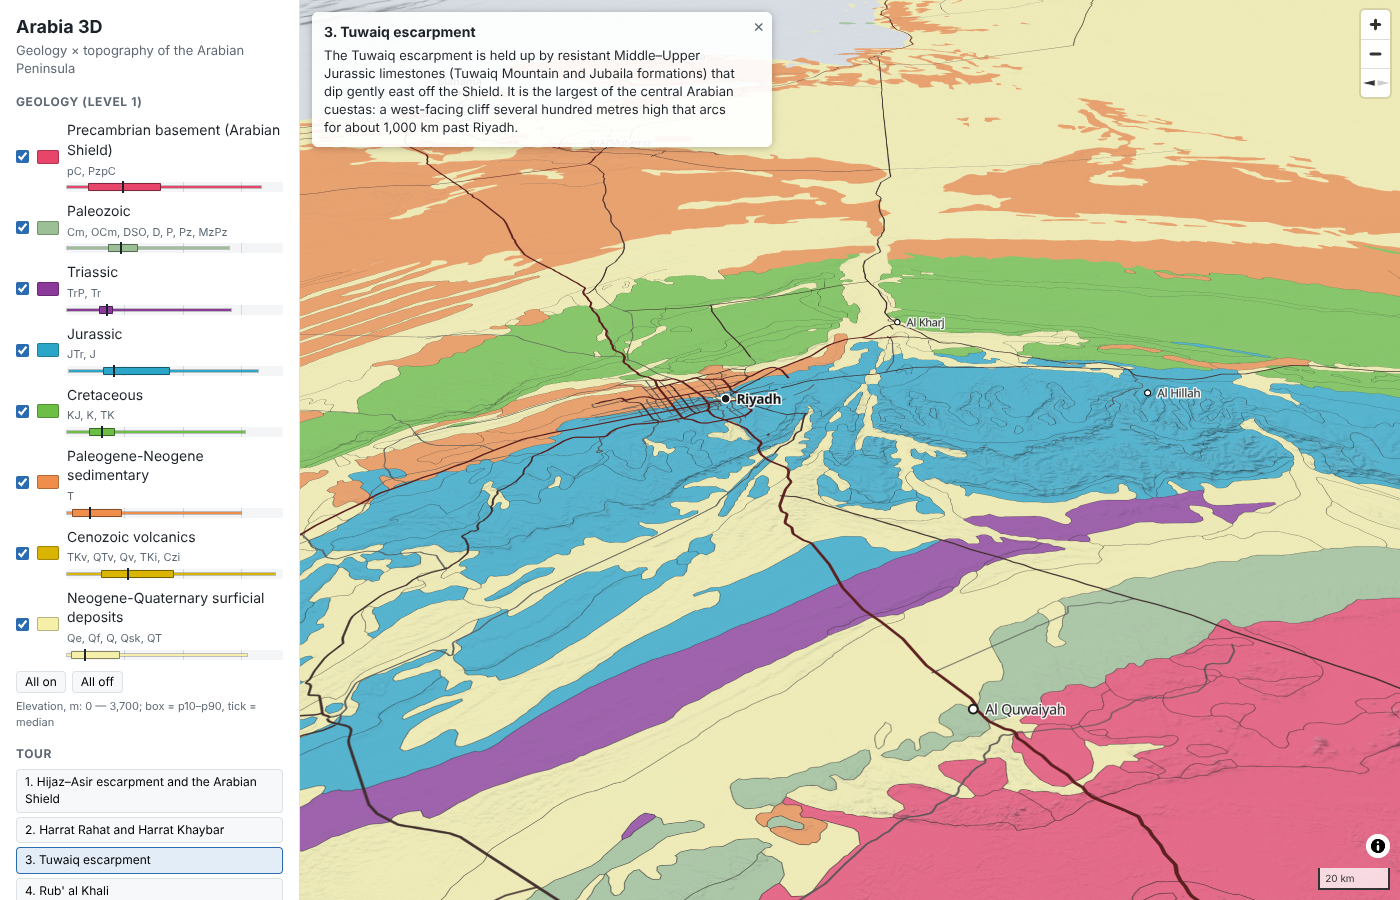
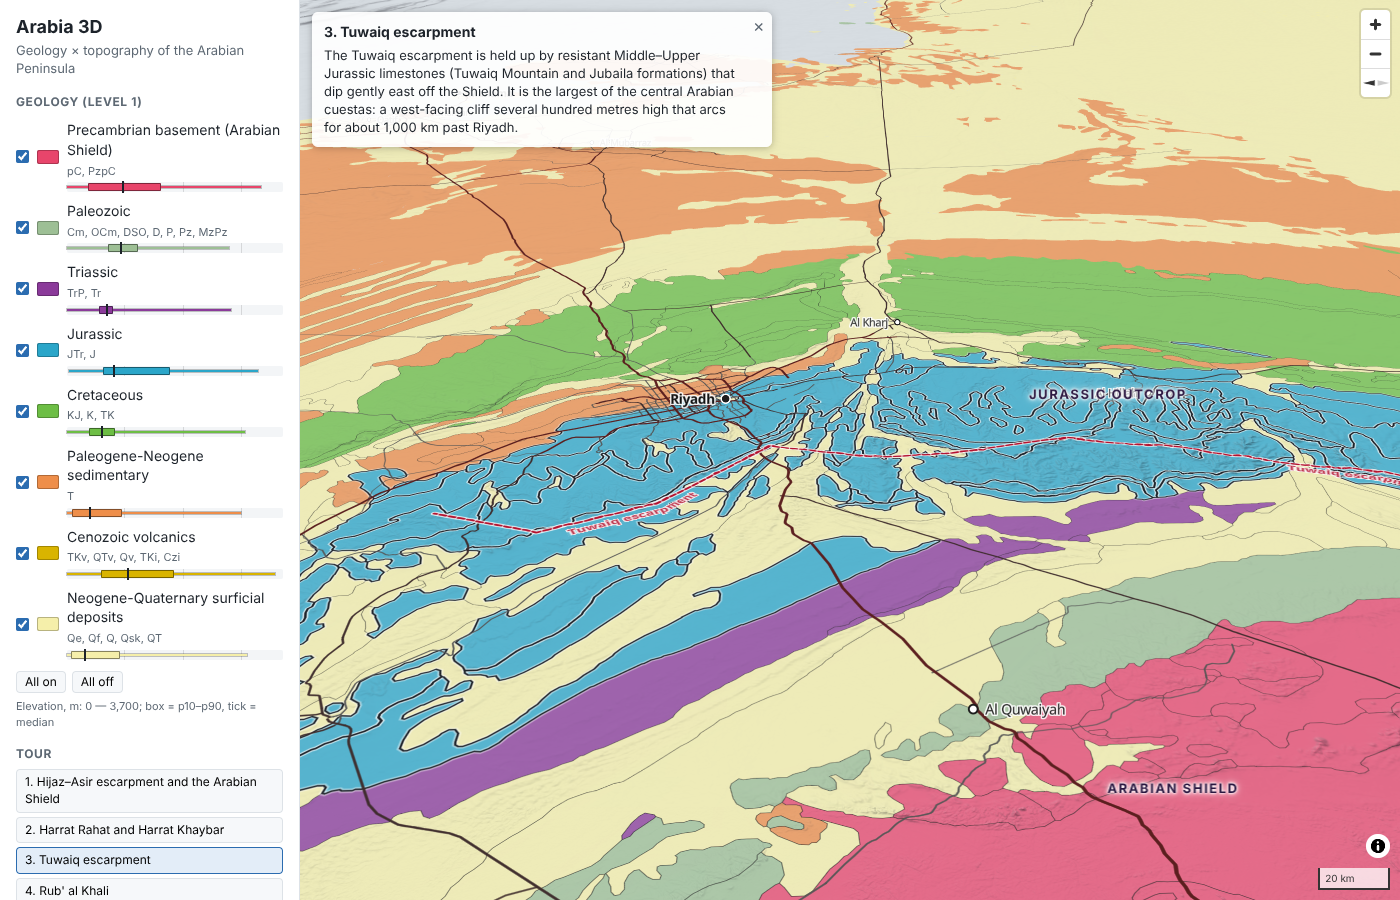
Tour annotations: flags, area labels, unit outlines and escarpment traces per stop
- Each STOPS entry has marks: flags on named summits (DOM markers standing on
  the terrain), area labels (DOM markers, never hidden by terrain occlusion),
  a focus outline of the featured geology polygons (MapLibre filter) and,
  for Asir and Tuwaiq, a dashed escarpment trace derived from the z7 DEM
- Marks show only for the active stop; Home clears them
- Phone: caption no longer covers the zoom buttons
- Screenshots re-shot (m4_stop1-8, m4_phone_stop5); README documents marks

Claude-Session: https://claude.ai/code/session_01PHeRTerNULGnoxzkAKxGZw

diff --git a/docs/app.js b/docs/app.js
@@ -37,6 +37,7 @@ const style = {
     geology: { type: 'geojson', data: 'data/geology.geojson', attribution: GEO_ATTR },
     roads: { type: 'geojson', data: 'data/roads.geojson', attribution: OSM_ATTR },
     cities: { type: 'geojson', data: 'data/cities.geojson', attribution: NE_ATTR },
+    tour: { type: 'geojson', data: { type: 'FeatureCollection', features: [] } },
   },
   layers: [
     { id: 'background', type: 'background', paint: { 'background-color': '#d7dde2' } },
@@ -59,6 +60,15 @@ const style = {
         'line-color': 'rgba(40, 40, 40, 0.55)',
         'line-width': ['interpolate', ['linear'], ['zoom'], 8, 0.3, 12, 1],
       },
+    },
+    // Tour: outline of the polygons a stop is about (filter set per stop).
+    {
+      id: 'focus-glow', type: 'line', source: 'geology', layout: { visibility: 'none' },
+      paint: { 'line-color': '#ffffff', 'line-width': 4.5, 'line-blur': 1.5, 'line-opacity': 0.9 },
+    },
+    {
+      id: 'focus-line', type: 'line', source: 'geology', layout: { visibility: 'none' },
+      paint: { 'line-color': '#1d232a', 'line-width': 1.6 },
     },
     {
       id: 'roads-primary', type: 'line', source: 'roads', minzoom: 6,
@@ -92,6 +102,25 @@ const style = {
     },
     // City dots. Visibility by scalerank tier; capitals drawn as squares (larger, inverted).
     ...cityLayers(),
+    // Tour annotations: escarpment lines for the active stop (flags and area labels are DOM markers).
+    {
+      id: 'tour-line-casing', type: 'line', source: 'tour', filter: ['==', ['geometry-type'], 'LineString'],
+      layout: { 'line-join': 'round', 'line-cap': 'round' },
+      paint: { 'line-color': '#ffffff', 'line-width': 6, 'line-opacity': 0.85 },
+    },
+    {
+      id: 'tour-line', type: 'line', source: 'tour', filter: ['==', ['geometry-type'], 'LineString'],
+      layout: { 'line-join': 'round', 'line-cap': 'round' },
+      paint: { 'line-color': '#b3122e', 'line-width': 3, 'line-dasharray': [2, 1.2] },
+    },
+    {
+      id: 'tour-line-label', type: 'symbol', source: 'tour', filter: ['==', ['geometry-type'], 'LineString'],
+      layout: {
+        'symbol-placement': 'line', 'text-field': ['get', 'name'], 'text-font': FONT_BOLD,
+        'text-size': 13, 'text-offset': [0, -1.1], 'text-letter-spacing': 0.05, 'symbol-spacing': 320,
+      },
+      paint: { 'text-color': '#b3122e', 'text-halo-color': '#ffffff', 'text-halo-width': 2 },
+    },
   ],
 };
 
@@ -291,48 +320,86 @@ const STOPS = [
   {
     title: 'Hijaz–Asir escarpment and the Arabian Shield',
     camera: { center: [42.6, 18.8], zoom: 8, pitch: 62, bearing: 65 },
+    marks: {
+      flags: [['Jabal Sawda', '~3,000 m', 42.369, 18.266]],
+      areas: [['Arabian Shield', 43.0, 19.35], ['Tihamah', 41.3, 19.0]],
+      lines: [['Asir escarpment', [[42.71, 18.0], [42.31, 18.25], [42.21, 18.5], [42.21, 18.75], [42.06, 19.0], [42.04, 19.25], [41.86, 19.5], [41.85, 19.75], [41.38, 20.0], [41.19, 20.25]]]],
+    },
     caption: 'The Arabian Shield is Neoproterozoic crystalline basement (island-arc volcanics, metasediments and granites accreted c. 870–550 Ma), exposed where the Red Sea rift flank was uplifted. ' +
       'The Asir highlands reach nearly 3,000 m and fall in a steep west-facing escarpment to the Tihamah coastal plain, while the Shield surface slopes gently east beneath the sedimentary cover.',
   },
   {
     title: 'Harrat Rahat and Harrat Khaybar',
     camera: { center: [39.9, 24.4], zoom: 7, pitch: 55, bearing: 0 },
+    marks: {
+      areas: [['Harrat Rahat', 40.1, 23.7], ['Harrat Khaybar', 40.1, 25.6]],
+      focus: ['==', ['slice', ['get', 'level2_label'], 0, 7], 'Harrats'],
+    },
     caption: 'Harrat Rahat and Harrat Khaybar are Cenozoic alkali-basalt lava fields erupted through the Shield along north–south vent alignments; the youngest Rahat flow, south-east of Madinah, erupted in AD 1256. ' +
       'They form broad dark lava plateaux at about 1,000–2,000 m, studded with scoria cones and domes and standing above the eroded basement around them.',
   },
   {
     title: 'Tuwaiq escarpment',
     camera: { center: [46.4, 24.3], zoom: 8, pitch: 62, bearing: 90 },
+    marks: {
+      areas: [['Arabian Shield', 45.05, 23.75], ['Jurassic outcrop', 46.75, 23.6]],
+      lines: [['Tuwaiq escarpment', [[45.14, 20.0], [45.18, 20.25], [45.32, 20.5], [45.34, 20.75], [45.44, 21.0], [45.52, 21.25], [45.59, 21.5], [45.68, 21.75], [45.9, 22.25], [46.01, 22.5], [46.1, 22.75], [46.26, 23.0], [46.33, 23.25], [46.41, 23.5], [46.46, 23.75], [46.38, 24.0], [46.35, 24.25], [46.42, 24.5], [46.1, 24.75], [45.96, 25.0], [46.05, 25.25]]]],
+      focus: ['in', ['get', 'GLG'], ['literal', ['J', 'JTr']]],
+    },
     caption: 'The Tuwaiq escarpment is held up by resistant Middle–Upper Jurassic limestones (Tuwaiq Mountain and Jubaila formations) that dip gently east off the Shield. ' +
       'It is the largest of the central Arabian cuestas: a west-facing cliff several hundred metres high that arcs for about 1,000 km past Riyadh.',
   },
   {
     title: 'Rub\' al Khali',
     camera: { center: [51.0, 21.0], zoom: 6.5, pitch: 50, bearing: 0 },
+    marks: {
+      areas: [['Rub\' al Khali', 50.5, 20.4]],
+    },
     caption: 'The Rub\' al Khali is the largest continuous sand sea on Earth: Quaternary eolian sand with interdune sabkhas over a thick Cenozoic basin fill. ' +
       'Its relief is made of dunes, not bedrock, with linear and star mega-dunes up to about 250 m high on a floor that falls from about 800 m in the south-west to near sea level in the north-east.',
   },
   {
     title: 'Hajar Mountains',
     camera: { center: [57.5, 23.1], zoom: 8, pitch: 60, bearing: 180 },
+    marks: {
+      flags: [['Jabal Shams', '~3,000 m', 57.277, 23.216]],
+      areas: [['Jabal Akhdar window', 57.65, 23.12], ['Saih Hatat window', 58.35, 23.35],
+        ['Semail ophiolite', 57.95, 23.5], ['Batinah plain', 57.2, 24.0]],
+      focus: ['all', ['in', ['get', 'level1_class'], ['literal', ['Paleozoic', 'Triassic', 'Jurassic']]],
+        ['within', { type: 'Polygon', coordinates: [[[56.5, 22.4], [59.5, 22.4], [59.5, 24.2], [56.5, 24.2], [56.5, 22.4]]] }]],
+    },
     caption: 'The Hajar Mountains expose the Semail ophiolite and Hawasina deep-water sediments thrust onto the Arabian margin in the Late Cretaceous (both kept within the Cretaceous class here), with the underlying Paleozoic–Mesozoic shelf succession exposed in the Jabal Akhdar and Saih Hatat windows. ' +
       'Neogene uplift raised the Jabal Akhdar dome to about 3,000 m, and the range rises abruptly above the Batinah gravel plain and the interior foreland.',
   },
   {
     title: 'Yemen highlands and traps',
     camera: { center: [44.2, 15.0], zoom: 7.5, pitch: 60, bearing: 90 },
+    marks: {
+      flags: [['Jabal an-Nabi Shu\'ayb', '~3,660 m', 43.973, 15.279, 'left', 46]],
+      areas: [['Yemen traps', 44.6, 14.4], ['Tihamah', 43.1, 14.9]],
+      focus: ['==', ['slice', ['get', 'level2_label'], 0, 11], 'Yemen traps'],
+    },
     caption: 'The Yemen highlands are capped by the Oligocene–Miocene Yemen traps, flood basalts and silicic volcanics erupted c. 31–29 Ma over Jurassic–Cretaceous sediments and Precambrian basement. ' +
       'The traps build a plateau at 2,000–3,000 m, cut by deep wadis and topped by Jabal an-Nabi Shu\'ayb (c. 3,660 m, the highest point of the peninsula), which drops steeply west to the Tihamah.',
   },
   {
     title: 'Dhofar',
     camera: { center: [54.0, 17.5], zoom: 8.2, pitch: 58, bearing: 0 },
+    marks: {
+      flags: [['Jabal Samhan', '', 54.849, 17.178]],
+      areas: [['Jabal Qara', 53.75, 17.12], ['Dhofar plateau', 54.0, 17.85]],
+    },
     caption: 'Dhofar is a plateau of Paleocene–Eocene shelf limestones uplifted on the northern shoulder of the Gulf of Aden rift. ' +
       'The Qara and Samhan mountains rise in a south-facing escarpment up to about 2,000 m above the Salalah plain and slope gently north into the interior.',
   },
   {
     title: 'UAE coastal sabkhas and Musandam',
     camera: { center: [55.4, 25.1], zoom: 7.5, pitch: 55, bearing: 40 },
+    marks: {
+      flags: [['Jebel Harim', '~2,090 m', 56.234, 25.973]],
+      areas: [['Abu Dhabi coastal sabkha', 53.9, 24.05], ['Musandam', 56.3, 26.2]],
+      focus: ['==', ['get', 'level2_label'], 'Sabkha'],
+    },
     caption: 'The Abu Dhabi coastal sabkhas are Holocene supratidal evaporite flats along the Gulf, while the Musandam peninsula exposes Mesozoic shelf carbonates folded and uplifted with the Oman mountains. ' +
       'The sabkhas are almost flat surfaces within a few metres of sea level; Musandam rises to about 2,000 m and drops straight into the sea along drowned valleys (khawrs).',
   },
@@ -350,6 +417,54 @@ function showCaption(i) {
   caption.hidden = false;
   document.querySelectorAll('#bookmarks button').forEach((b, j) => b.classList.toggle('active', j === i));
 }
+// Flags are DOM markers: they stand upright on the terrain whatever the pitch.
+let flagMarkers = [];
+function makeFlag(name, note, side, pole) {
+  const el = document.createElement('div');
+  el.className = side === 'left' ? 'flag flag-left' : 'flag';
+  el.innerHTML = `<div class="flag-cloth">${esc(name)}${note ? `<small>${esc(note)}</small>` : ''}</div><div class="flag-pole"${pole ? ` style="height:${pole}px"` : ''}></div>`;
+  return el;
+}
+function clearMarks() {
+  flagMarkers.forEach((m) => m.remove());
+  flagMarkers = [];
+  map.getSource('tour')?.setData({ type: 'FeatureCollection', features: [] });
+  ['focus-glow', 'focus-line'].forEach((l) => map.getLayer(l) && map.setLayoutProperty(l, 'visibility', 'none'));
+}
+function showMarks(i) {
+  clearMarks();
+  const mk = STOPS[i].marks || {};
+  // Flag: [name, note, lon, lat, side, pole px]; side 'left' puts the cloth left of the pole and a taller pole lifts it (to keep labels clear).
+  for (const [name, note, lon, lat, side, pole] of mk.flags || []) {
+    const left = side === 'left';
+    flagMarkers.push(new maplibregl.Marker({
+      opacityWhenCovered: '1',
+      element: makeFlag(name, note, side, pole), anchor: left ? 'bottom-right' : 'bottom-left', offset: [left ? 1 : -1, 0],
+    })
+      .setLngLat([lon, lat]).addTo(map));
+  }
+  // Area labels are DOM markers too, so terrain occlusion never hides them mid-tour.
+  for (const [name, lon, lat] of mk.areas || []) {
+    const el = document.createElement('div');
+    el.className = 'area-label';
+    el.textContent = name;
+    flagMarkers.push(new maplibregl.Marker({ element: el, anchor: 'center', opacityWhenCovered: '1' })
+      .setLngLat([lon, lat]).addTo(map));
+  }
+  const features = [
+    ...(mk.lines || []).map(([name, coords]) => ({
+      type: 'Feature', properties: { name }, geometry: { type: 'LineString', coordinates: coords },
+    })),
+  ];
+  map.getSource('tour').setData({ type: 'FeatureCollection', features });
+  if (mk.focus) {
+    for (const l of ['focus-glow', 'focus-line']) {
+      map.setFilter(l, mk.focus);
+      map.setLayoutProperty(l, 'visibility', 'visible');
+    }
+  }
+}
+
 function hideCaption() {
   caption.hidden = true;
   document.querySelectorAll('#bookmarks button').forEach((b) => b.classList.remove('active'));
@@ -358,6 +473,7 @@ caption.querySelector('.caption-close').onclick = hideCaption;
 
 function goTo(i, duration) {
   showCaption(i);
+  showMarks(i);
   if (isPhone()) document.body.classList.remove('panel-visible');
   // Only pass duration when set: an explicit undefined overrides MapLibre's default and yields NaN frames.
   map.flyTo({ ...STOPS[i].camera, ...(duration ? { duration } : {}), essential: true });
@@ -390,6 +506,7 @@ function startTour() {
 function goHome() {
   stopTour();
   hideCaption();
+  clearMarks();
   const cam = map.cameraForBounds(PENINSULA, { padding: isPhone() ? 10 : 30 });
   map.flyTo({ ...cam, pitch: 45, bearing: 0, essential: true });
 }

diff --git a/docs/style.css b/docs/style.css
@@ -171,8 +171,35 @@ body { display: flex; }
 @media (max-width: 700px) {
   .bookmarks { grid-template-columns: 1fr 1fr; }
   .caption {
-    top: 56px; left: 10px; right: 10px; max-width: none;
+    top: 56px; left: 10px; right: 52px; max-width: none;  /* keep the zoom buttons clear */
     font-size: 12px; max-height: 40%; overflow-y: auto;
   }
   .caption h3 { font-size: 13px; }
+}
+
+/* ---- Tour flags (DOM markers) ---- */
+.flag { display: flex; flex-direction: column; align-items: flex-start; pointer-events: none; }
+.flag-cloth {
+  background: #b3122e; color: #fff; font-size: 11px; font-weight: 600; line-height: 1.2;
+  padding: 3px 7px 3px 6px; border-radius: 0 3px 3px 0; white-space: nowrap;
+  box-shadow: 0 1px 4px rgba(0,0,0,.35);
+}
+.flag-cloth small { display: block; font-weight: 400; font-size: 10px; opacity: .9; }
+.flag-pole {
+  width: 2px; height: 26px; background: #2b2b2b;
+  box-shadow: 0 0 0 1px rgba(255,255,255,.6);
+  position: relative;
+}
+.flag-pole::after {
+  content: ""; position: absolute; left: -3px; bottom: -3px;
+  width: 8px; height: 8px; border-radius: 50%; background: #b3122e; border: 1.5px solid #fff;
+}
+.flag-left { align-items: flex-end; }
+.flag-left .flag-cloth { border-radius: 3px 0 0 3px; text-align: right; }
+.flag-left .flag-pole::after { left: -4px; }
+.area-label {
+  pointer-events: none; white-space: nowrap; text-align: center;
+  font-size: 13px; font-weight: 700; letter-spacing: .12em; text-transform: uppercase;
+  color: #2a1640;
+  text-shadow: 0 0 2px #fff, 0 0 3px #fff, 0 0 5px #fff, 0 0 8px rgba(255,255,255,.9);
 }

diff --git a/docs/index.html b/docs/index.html
@@ -35,6 +35,7 @@
         <button type="button" id="tour-stop" disabled>■ Stop</button>
         <button type="button" id="tour-home">⌂ Home</button>
       </div>
+      <p class="hint">Each stop shows flags on key summits, labels, outlines of the featured units and, where relevant, the escarpment trace (dashed red, derived from the z7 DEM).</p>
     </section>
 
     <section class="controls">

diff --git a/notebooks/m4_screenshots.py b/notebooks/m4_screenshots.py
@@ -43,6 +43,7 @@ with sync_playwright() as p:
         page.evaluate(WAIT_IDLE)
         page.wait_for_timeout(1500)
         page.evaluate(WAIT_IDLE)
+        page.wait_for_timeout(2500)  # let symbol labels fade in
         page.screenshot(path=OUT / f"m4_stop{i}.png")
         print("stop", i, flush=True); print( page.evaluate("[map.getCenter().toArray().map(v => +v.toFixed(2)), +map.getZoom().toFixed(2)]"))
 
@@ -69,6 +70,11 @@ with sync_playwright() as p:
     phone.click("#panel-open")
     phone.wait_for_timeout(800)
     phone.screenshot(path=OUT / "m4_phone.png")
+    phone.locator("#bookmarks button").nth(4).click()  # Hajar; closes the panel on phones
+    phone.wait_for_timeout(500)
+    phone.evaluate(WAIT_IDLE)
+    phone.wait_for_timeout(2500)
+    phone.screenshot(path=OUT / "m4_phone_stop5.png")
     phone.close()
     browser.close()
 

diff --git a/README.md b/README.md
@@ -123,7 +123,7 @@ python -m http.server -d docs
 
 Then open http://localhost:8000. The map loads ~8.5 MB of GeoJSON uncompressed (geology 7.0 MB, roads 1.5 MB), ~2.2 MB gzipped as GitHub Pages serves it. Screenshots of the M3 check are in `notebooks/m3_*.png`.
 
-The legend shows, per class, an elevation box plot (line = min–max, box = p10–p90, tick = median; hover for numbers). The **Tour** section has eight camera presets (Hijaz–Asir escarpment, Harrat Rahat/Khaybar, Tuwaiq, Rub' al Khali, Hajar, Yemen highlands, Dhofar, UAE sabkhas and Musandam), each with a two-sentence caption. **Play tour** steps through them (~8 s per stop); any drag or zoom stops it, and **Home** returns to the peninsula view. Cameras and captions are in the `STOPS` array at the top of the tour section in `docs/app.js`. `notebooks/m4_screenshots.py` (Python Playwright, with the site served on port 8000) reshoots `notebooks/m4_*.png`.
+The legend shows, per class, an elevation box plot (line = min–max, box = p10–p90, tick = median; hover for numbers). The **Tour** section has eight camera presets (Hijaz–Asir escarpment, Harrat Rahat/Khaybar, Tuwaiq, Rub' al Khali, Hajar, Yemen highlands, Dhofar, UAE sabkhas and Musandam), each with a two-sentence caption. **Play tour** steps through them (~8 s per stop); any drag or zoom stops it, and **Home** returns to the peninsula view. Cameras and captions are in the `STOPS` array at the top of the tour section in `docs/app.js`. Each stop also has `marks`, shown only while that stop is active: red **flags** on named summits (Jabal Sawda, Jabal Shams, Jabal an-Nabi Shu'ayb, Jabal Samhan, Jebel Harim; positions are the z7 DEM maxima near each summit, heights are the commonly quoted values), **area labels** (Arabian Shield, Tihamah, the harrats, Jabal Akhdar and Saih Hatat windows, Semail ophiolite, Yemen traps, Musandam and others), a dark **outline** of the featured geology polygons (harrats, Jurassic outcrop, Oman windows, Yemen traps, sabkhas; a MapLibre filter on `geology.geojson`) and, for stops 1 and 3, a dashed red **escarpment trace**. The traces were derived from the z7 Terrarium mosaic: at each 0.25° of latitude, the steepest eastward rise over ~5–7 km (inside the Jurassic outcrop for Tuwaiq, 20.0–25.25°N; between 41° and 43.6°E for Asir, 18.0–20.25°N). They are approximate, at the ~1–5 km level. Flags and area labels are DOM markers, so they stand upright on the terrain and are never hidden by terrain occlusion. To add or move one, edit `marks` in `STOPS`. `notebooks/m4_screenshots.py` (Python Playwright, with the site served on port 8000) reshoots `notebooks/m4_*.png`.
 
 ## Sources and licences
 
